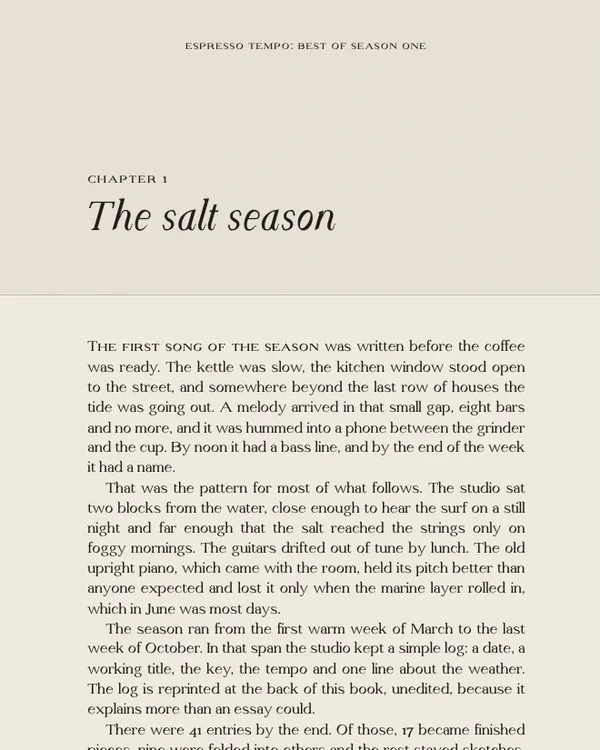
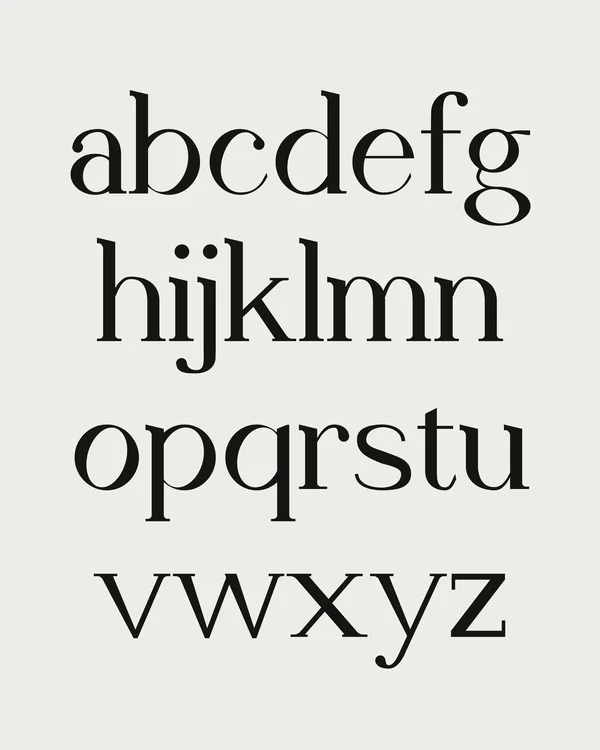
Opmet Serif: the lowercase alphabet as the card; Opmet's v13 page
The card is now the lowercase set, a to z in four lines of Display Regular,
rendered at 2000 x 2500 so the grid's thumbnails are sharp (the book-page crop
is gone). The work column follows Opmet's v13: no printed-letters picture and
no Proofs and process, so In use ends on the business cards.

diff --git a/site/work/opmet-serif.html b/site/work/opmet-serif.html
@@ -6,7 +6,7 @@
   <title>Opmet Serif — Type Design — Dalton Corr</title>
   <link rel="stylesheet" href="../css/style.css?v=98dfdb5d">
   <link rel="stylesheet" href="../css/work-cards.css?v=d2d32965">
-  <link rel="stylesheet" href="../css/opmet-serif.css?v=f3ae1963">
+  <link rel="stylesheet" href="../css/opmet-serif.css?v=8d0c025a">
   <link rel="preload" href="../fonts/opmet-serif/opmet-serif.woff2" as="font" type="font/woff2" crossorigin>
   <link rel="preload" href="../fonts/opmet-serif/opmet-serif-italic.woff2" as="font" type="font/woff2" crossorigin>
   <link rel="icon" href="../favicon.ico?v=6" type="image/x-icon">
@@ -85,7 +85,7 @@
         <!-- BEGIN: deck -->
         <div class="wc-deck-box"><div class="wc-deck">
         <a href="opmet-serif" class="project-card" data-sort-order="0" data-year="2026" data-filters="visual branding" data-layer="0">
-          <div class="card-image"><img src="../images/cards/opmet-serif-lg.webp" srcset="../images/cards/opmet-serif-sm.webp 600w, ../images/cards/opmet-serif-lg.webp 660w" sizes="(min-width: 1100px) 400px, (min-width: 768px) 300px, 260px" width="660" height="825" alt="A book's chapter opening set in Opmet Serif: The salt season in Display Italic over justified text in Text Regular." loading="eager" fetchpriority="high" decoding="async"></div>
+          <div class="card-image"><img src="../images/cards/opmet-serif-lg.webp" srcset="../images/cards/opmet-serif-sm.webp 600w, ../images/cards/opmet-serif-lg.webp 1000w, ../images/cards/opmet-serif-xl.webp 1500w" sizes="(min-width: 1100px) 400px, (min-width: 768px) 300px, 260px" width="1000" height="1250" alt="The lowercase alphabet of Opmet Serif in Display Regular, a to z in four lines." loading="eager" fetchpriority="high" decoding="async"></div>
           <div class="card-info">
             <h3 class="card-title">Opmet Serif</h3>
             <span class="card-role">Type Design</span>
@@ -199,18 +199,7 @@
     <img src="../media/opmet-serif/p-d568898d.webp" width="2400" height="1650" alt="A poster on a plaster wall: Season One in Display Black and Bold Italic, the details in small caps." loading="lazy">
     <img src="../media/opmet-serif/p-f66fe645.webp" width="2400" height="1650" alt="A café menu on stone: the dishes in Text Regular, the prices in oldstyle figures with fractions, the notes in italic." loading="lazy">
     <img class="os-full" src="../media/opmet-serif/p-5cb32701.webp" width="2400" height="1650" alt="Letterpress business cards for Opmet Osserpse: the name in Display Regular, the address in small caps." loading="lazy">
-    <img class="os-full" src="../media/opmet-serif/p-43250cf3.webp" width="2400" height="1650" alt="Printed letters up close: an a, an italic g and the ampersand, in ink on cotton paper." loading="lazy">
   </figure>
-</section>
-
-<section class="os-piece" aria-labelledby="os-h-proofs">
-  <h2 class="os-mh" id="os-h-proofs">Proofs and process</h2>
-  <div class="os-work os-proofs">
-    <figure class="os-plate os-full"><img src="../media/opmet-serif/p-8094cf97.webp" width="1500" height="870" alt="The e of Opmet Serif with its outline points and handles, beside the finished e and o." loading="lazy"></figure>
-    <figure class="os-plate"><img src="../media/opmet-serif/p-aa9d190f.webp" width="720" height="770" alt="The italic k in Black, drawn in red over its gray reference." loading="lazy"></figure>
-    <figure class="os-plate"><img src="../media/opmet-serif/p-2c185dd5.webp" width="762" height="552" alt="a, b, d, g, i and j at Thin, Regular and Black." loading="lazy"></figure>
-    <figure class="os-plate os-full"><img src="../media/opmet-serif/p-a5c69b15.webp" width="1150" height="410" alt="The italic s in Black with its curvature measured: rough at an early version, even at the final one." loading="lazy"></figure>
-  </div>
 </section>
 
 <section class="os-piece" aria-labelledby="os-h-nums">

diff --git a/site/index.html b/site/index.html
@@ -194,7 +194,7 @@
         </a>
 
         <a href="/work/opmet-serif" class="project-card" data-sort-order="0" data-year="2026" data-filters="visual branding">
-          <div class="card-image"><img data-src="/images/cards/opmet-serif-lg.webp" data-srcset="/images/cards/opmet-serif-sm.webp 600w, /images/cards/opmet-serif-lg.webp 660w" sizes="(min-width: 2090px) 480px, (min-width: 1280px) 23vw, (min-width: 1100px) 32vw, (min-width: 768px) calc(50vw - 140px), 46vw" width="660" height="825" alt="A book's chapter opening set in Opmet Serif: The salt season in Display Italic over justified text in Text Regular." loading="lazy" decoding="async"></div>
+          <div class="card-image"><img data-src="/images/cards/opmet-serif-lg.webp" data-srcset="/images/cards/opmet-serif-sm.webp 600w, /images/cards/opmet-serif-lg.webp 1000w, /images/cards/opmet-serif-xl.webp 1500w" sizes="(min-width: 2090px) 480px, (min-width: 1280px) 23vw, (min-width: 1100px) 32vw, (min-width: 768px) calc(50vw - 140px), 46vw" width="1000" height="1250" alt="The lowercase alphabet of Opmet Serif in Display Regular, a to z in four lines." loading="lazy" decoding="async"></div>
           <div class="card-info">
             <h3 class="card-title">Opmet Serif</h3>
             <span class="card-role">Type Design</span>

diff --git a/site/work/index.html b/site/work/index.html
@@ -115,7 +115,7 @@
         </a>
 
         <a href="opmet-serif" class="project-card" data-sort-order="0" data-year="2026" data-filters="visual branding">
-          <div class="card-image"><img src="../images/cards/opmet-serif-lg.webp" srcset="../images/cards/opmet-serif-sm.webp 600w, ../images/cards/opmet-serif-lg.webp 660w" sizes="(min-width: 2090px) 480px, (min-width: 1280px) 23vw, (min-width: 1100px) 32vw, (min-width: 768px) calc(50vw - 140px), 46vw" width="660" height="825" alt="A book's chapter opening set in Opmet Serif: The salt season in Display Italic over justified text in Text Regular." loading="eager" decoding="async"></div>
+          <div class="card-image"><img src="../images/cards/opmet-serif-lg.webp" srcset="../images/cards/opmet-serif-sm.webp 600w, ../images/cards/opmet-serif-lg.webp 1000w, ../images/cards/opmet-serif-xl.webp 1500w" sizes="(min-width: 2090px) 480px, (min-width: 1280px) 23vw, (min-width: 1100px) 32vw, (min-width: 768px) calc(50vw - 140px), 46vw" width="1000" height="1250" alt="The lowercase alphabet of Opmet Serif in Display Regular, a to z in four lines." loading="eager" decoding="async"></div>
           <div class="card-info">
             <h3 class="card-title">Opmet Serif</h3>
             <span class="card-role">Type Design</span>

diff --git a/site/css/opmet-serif.css b/site/css/opmet-serif.css
@@ -221,10 +221,3 @@
 .os .os-use-grid img{display:block;width:100%;height:auto;max-height:none;background:var(--paper-deep)}
 .os .os-use-grid .os-full{grid-column:1/-1}
 @container (max-width:700px){ .os .os-use-grid{grid-template-columns:minmax(0,1fr)} }
-
-/* Proofs and process: the working sheets, each on its own white plate */
-.os .os-proofs{display:grid;grid-template-columns:minmax(0,1fr) minmax(0,1fr);gap:var(--s3)}
-.os .os-proofs .os-plate{margin:0;background:var(--sheet);padding:clamp(14px,3cqw,48px);display:grid;place-items:center}
-.os .os-proofs .os-full{grid-column:1/-1}
-.os .os-proofs img{display:block;width:100%;height:auto}
-@container (max-width:700px){ .os .os-proofs{grid-template-columns:minmax(0,1fr)} }
